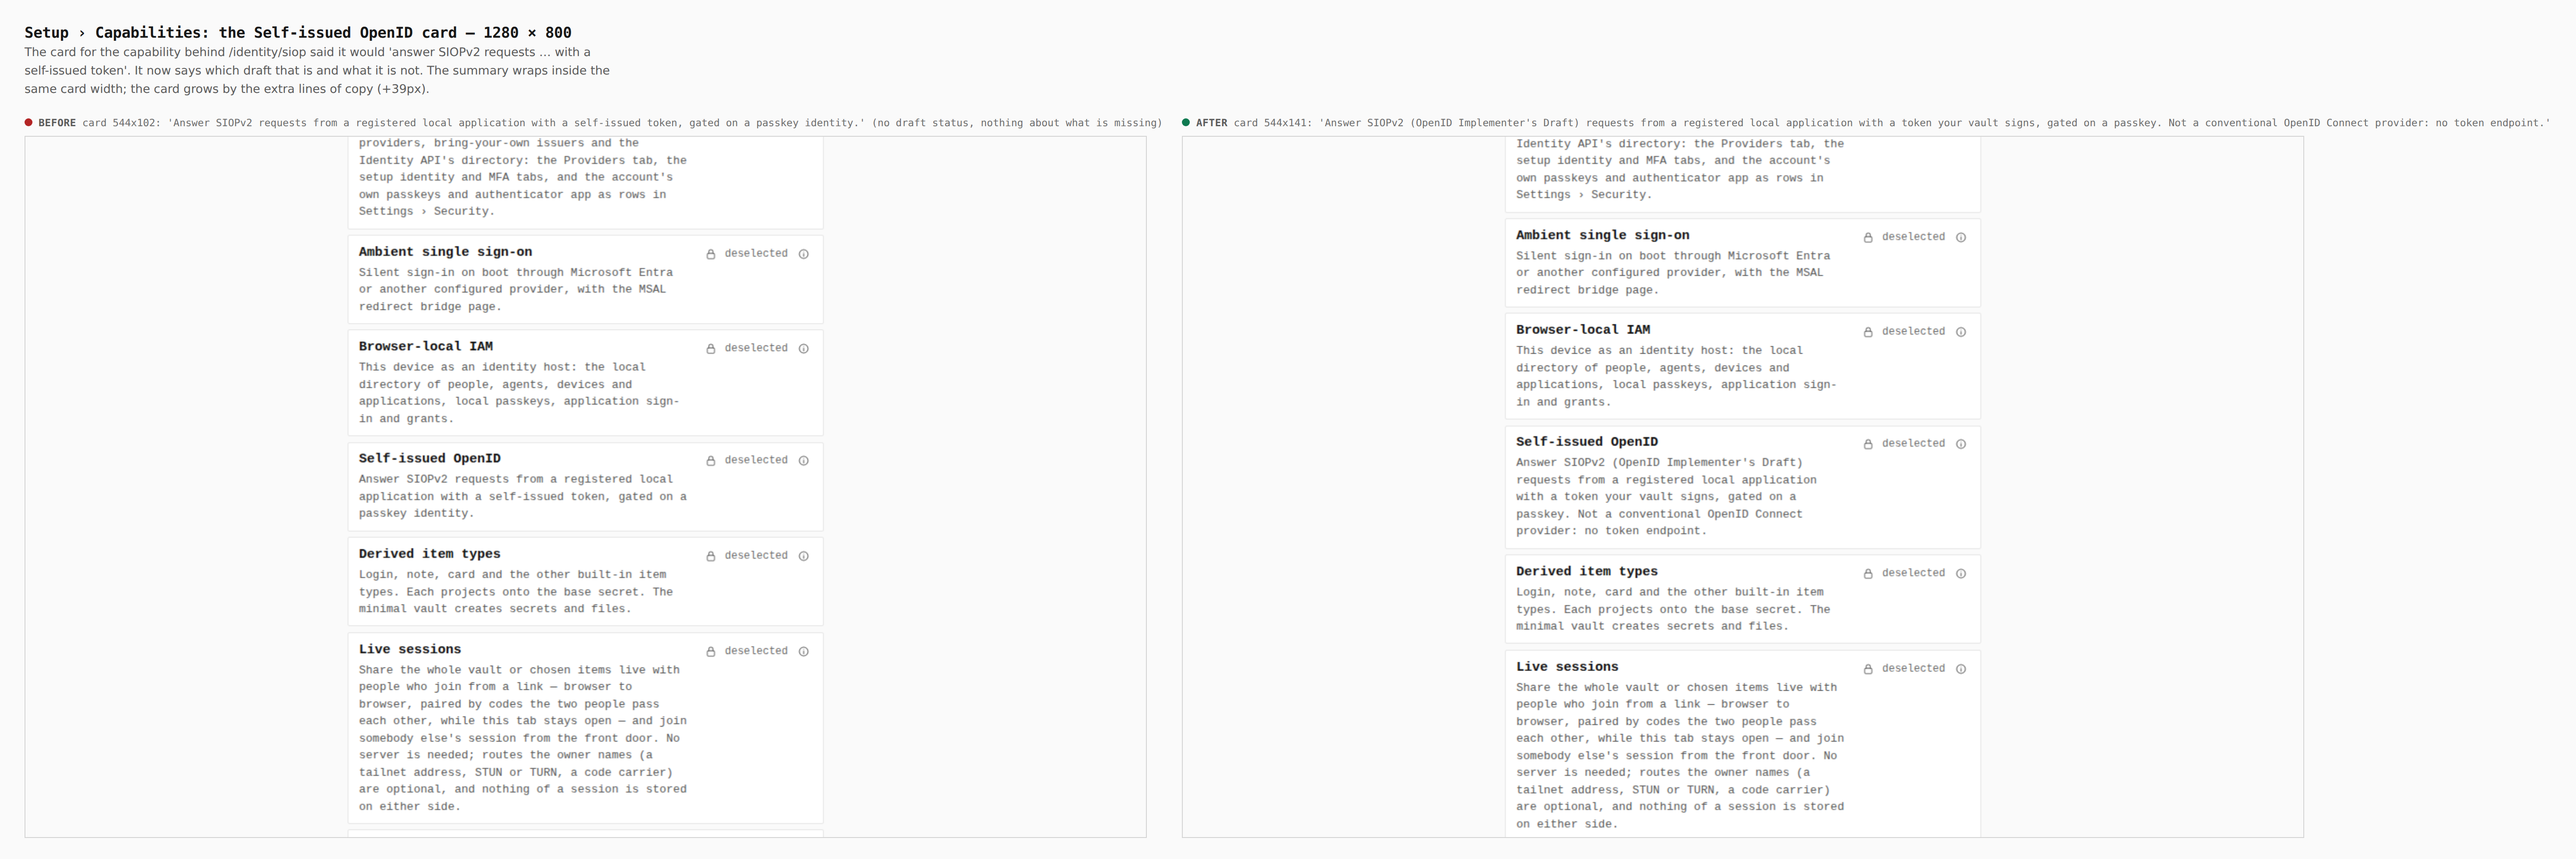
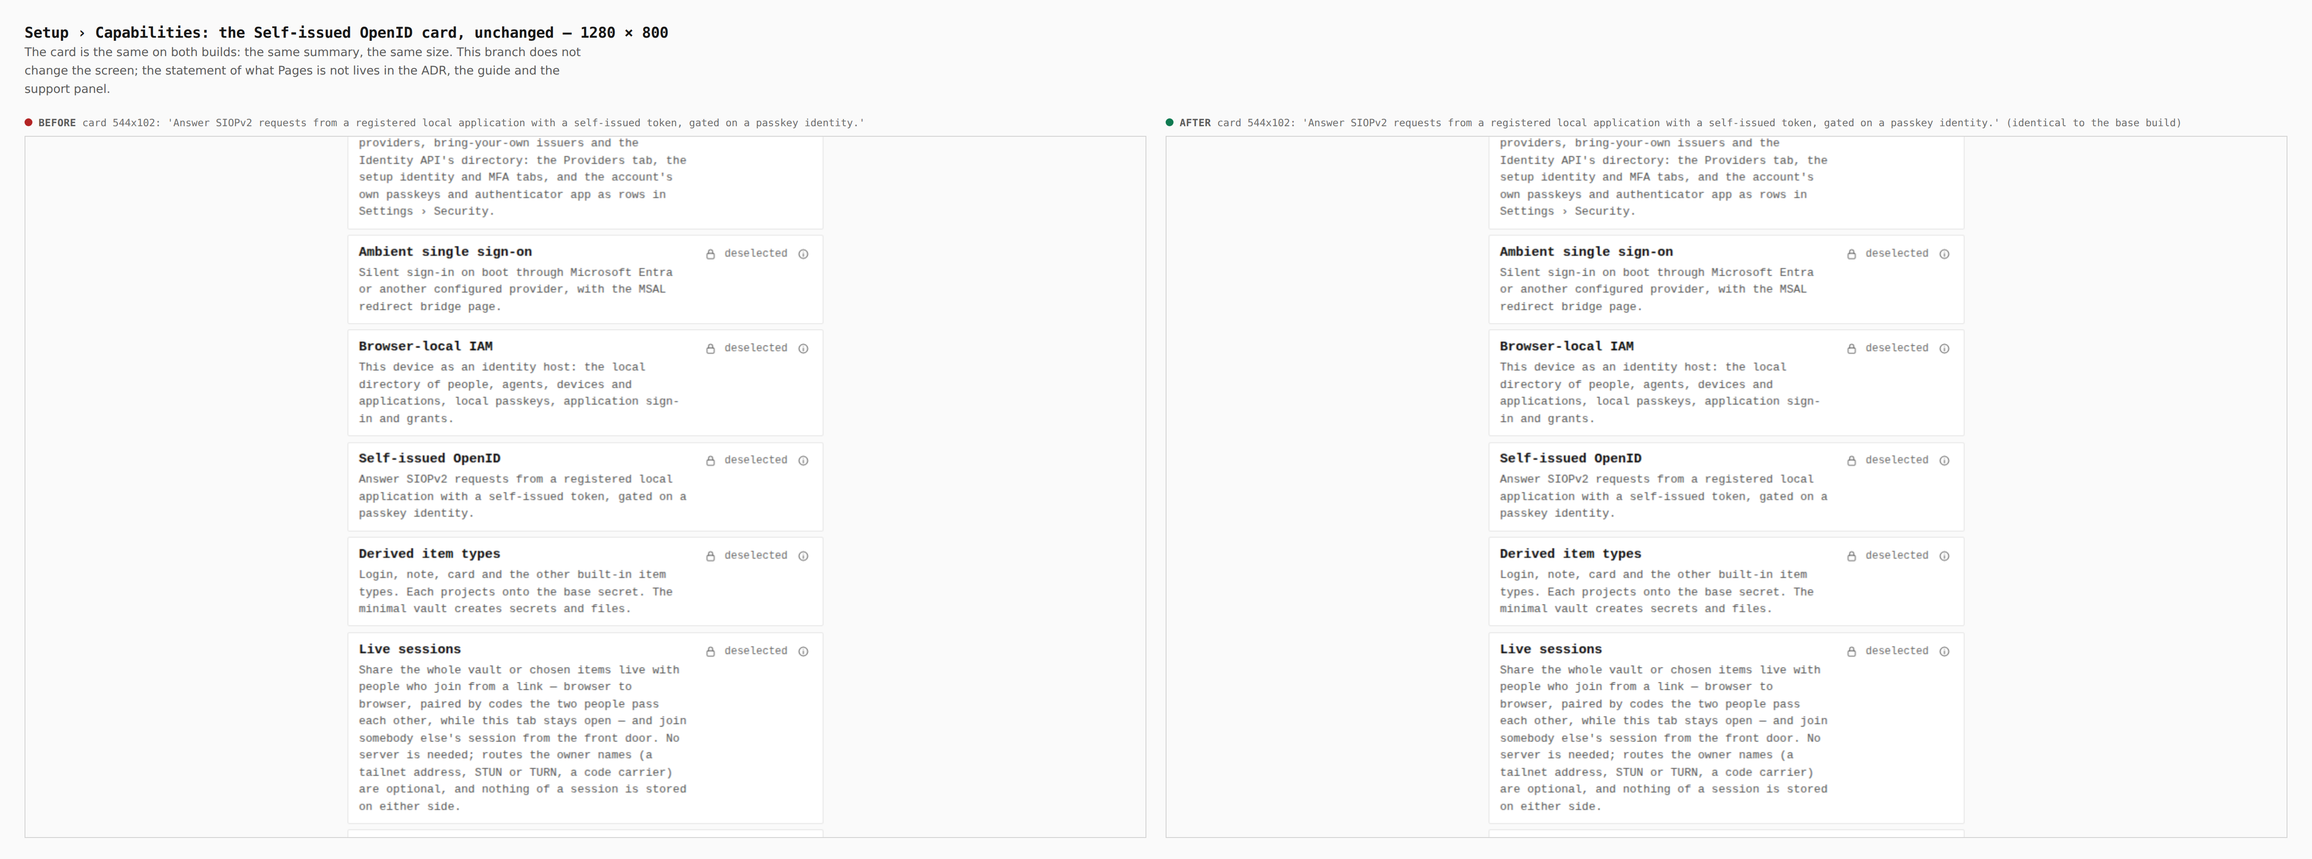
Revert the Self-issued OpenID card summary; re-capture the card as unchanged
The longer summary was an explainer caption on a screen (AGENTS.md section 5).
The card reads as it does on main; the statement lives in the ADR, the guide,
the support panel goal and the registry. The evidence is re-captured from two
real builds (merge-base 2ac61beb and this branch): card 544x102 and 353x180 on
both, same text. Its README no longer describes a change that is not there.

Claude-Session: https://claude.ai/code/session_01Ppmf28F4Ce2RbpSCS9THag

diff --git a/packages/app-core/src/lib/capabilities/catalog-always-on-local.ts b/packages/app-core/src/lib/capabilities/catalog-always-on-local.ts
@@ -41,7 +41,7 @@ export const BROWSER_LOCAL_DESCRIPTORS: readonly AuthoredDescriptor[] = [
   optional(
     "identity.siop",
     "Self-issued OpenID",
-    "Answer SIOPv2 (OpenID Implementer's Draft) requests from a registered local application with a token your vault signs, gated on a passkey. Not a conventional OpenID Connect provider: no token endpoint.",
+    "Answer SIOPv2 requests from a registered local application with a self-issued token, gated on a passkey identity.",
     {
       dependencies: ["identity.local-iam"],
       operationIds: ["identity.local.siop.authorize"],

diff --git a/docs/evidence/2026-10-04-siop-op/README.md b/docs/evidence/2026-10-04-siop-op/README.md
@@ -1,29 +1,28 @@
-# The Self-issued OpenID card says what Pages is not (ADR 0161)
+# The Self-issued OpenID card is unchanged (ADR 0161)
 
-Before/after from two real builds of `apps/pages`: the base (`6c4aa77b`, the
-tip of `main` this branch was cut from) and this branch, walked the same way
-by `apps/pages/scripts/capture-evidence.mjs` with [`journey.json`](journey.json)
-(`VITE_BASE=/OpenSesame/`; the base built in its own `git worktree` and
-captured with `EVIDENCE_DIST`). Sizes are read from the browser by the
-journey's `measure` step; the text by its `report` step.
+This branch changes no screen. An earlier revision lengthened the summary of the
+**Self-issued OpenID** card in Setup › Capabilities to say what Pages is not;
+that is an explainer caption on a screen (AGENTS.md §5), so it was reverted. The
+card reads exactly as it does on `main`. This directory is the proof of that, not
+of a change: two real builds, walked the same way, giving the same card.
 
-The walk: front door › Set up your own › Custom › Customize this installation ›
-Custom, then the **Self-issued OpenID** capability card
+The two builds: the base (`2ac61beb`, the tip of `origin/main` this branch was
+last merged with, so the merge-base) built in its own `git worktree` with
+`VITE_BASE=/OpenSesame/`, captured with `EVIDENCE_DIST`; and this branch built the
+same way. Both are walked by `apps/pages/scripts/capture-evidence.mjs` with
+[`journey.json`](journey.json): front door › Set up your own › Custom › Customize
+this installation › Custom, then the card
 (`[data-testid="capability-card-identity.siop"]`), at desktop and phone width.
+Sizes are read from the browser by the journey's `measure` step, the text by its
+`report` step.
 
-What changed: the card for the capability behind `/identity/siop` described a
-"self-issued token" without saying which draft it is or what it is not. Pages
-is a SIOPv2 (OpenID Implementer's Draft) provider and is **not a conventional
-OpenID Connect provider**: it has no token endpoint
-([ADR 0161](../../adr/0161-what-a-static-origin-can-be-as-an-openid-provider.md)).
-The card now says so in one sentence. The explanation itself lives in the ADR
-and in [Use OpenSesame Pages as your login](../../operators/use-pages-as-your-login.md),
-not on a screen (AGENTS.md §5: no explainer captions).
-
-| Screen | Before | After |
+| Screen | Base `2ac61beb` | This branch |
 |---|---|---|
-| Setup › Capabilities, 1280 × 800 | card 544x102, 113-character summary | card 544x141, 201-character summary (+39px) |
-| Setup › Capabilities, 390 × 844 | card 353x180 | card 353x258 (+78px), same width, no clipping |
+| Setup › Capabilities, 1280 × 800 | card 544x102 | card 544x102 |
+| Setup › Capabilities, 390 × 844 | card 353x180 | card 353x180 |
+
+Summary text on both, at both widths: "Answer SIOPv2 requests from a registered
+local application with a self-issued token, gated on a passkey identity."
 
 ## 1280 × 800
 
@@ -33,16 +32,22 @@ not on a screen (AGENTS.md §5: no explainer captions).
 
 ![Setup › Capabilities, Self-issued OpenID card, 390](390-siop-card.png)
 
-## What is not pictured, and what was verified instead
+## Where the statement lives instead
 
-- The guided-help goal (`identity.local.siop.authorize`) and the capability
-  registry title carry the same statement. The first is spoken by the support
-  panel only when someone asks, the second is read by agents and the support
-  model's context; neither has a fixed place on a screen to capture. Both are
-  covered by the tutorial-registry and registry tests (GuideLang parser and
-  validator accept the text; `siop-boundary.test.ts` pins the title).
-- `siop-metadata.json`, the relying-party kit and the examples have no rendered
-  surface; their evidence is `pnpm --filter @opensesame/pages verify:siop`
-  (see the ADR's *Testing* section), not images.
-- The Settings › Capabilities tile for this capability shows its name only, as
-  every tile does; it is unchanged.
+SIOPv2 (Implementer's Draft), not a conventional OpenID Connect provider, is said
+in [ADR 0161](../../adr/0161-what-a-static-origin-can-be-as-an-openid-provider.md),
+in [Use OpenSesame Pages as your login](../../operators/use-pages-as-your-login.md),
+in the guided-help goal `identity.local.siop.authorize` (spoken by the support
+panel only when someone asks), and in the capability registry title (read by
+agents and the support model's context). The two registry and support texts have
+no fixed place on a screen to capture; they are covered by the
+tutorial-registry tests (the GuideLang parser and validator accept the text) and
+by `siop-boundary.test.ts`, which pins the registry title.
+
+## What has no picture
+
+`siop-metadata.json`, the relying-party kit and the examples have no rendered
+surface of this app's; their evidence is `pnpm --filter @opensesame/pages
+verify:siop` (see the ADR's *Testing* section), not images. The example relying
+party's own sign-in page is a separate origin's page, not part of Pages, and is
+exercised in a real browser by that journey.

diff --git a/docs/evidence/README.md b/docs/evidence/README.md
@@ -47,7 +47,7 @@ evidence for a programme that ran across many pull requests.
 
 | Directory | What it shows |
 |---|---|
-| [`2026-10-04-siop-op/`](2026-10-04-siop-op/README.md) | The Self-issued OpenID card says what Pages is not (ADR 0161) |
+| [`2026-10-04-siop-op/`](2026-10-04-siop-op/README.md) | The Self-issued OpenID card is unchanged (ADR 0161) |
 | [`2026-10-03-unlock-from-protector/`](2026-10-03-unlock-from-protector/README.md) | Unlock from an enrolled protector — before and after |
 | [`2026-10-03-touch-copy/`](2026-10-03-touch-copy/README.md) | Keyboard-only copy stands down under a finger |
 | [`2026-10-03-share-once-phone/`](2026-10-03-share-once-phone/README.md) | Share once on an item's page, seated for the phone |
